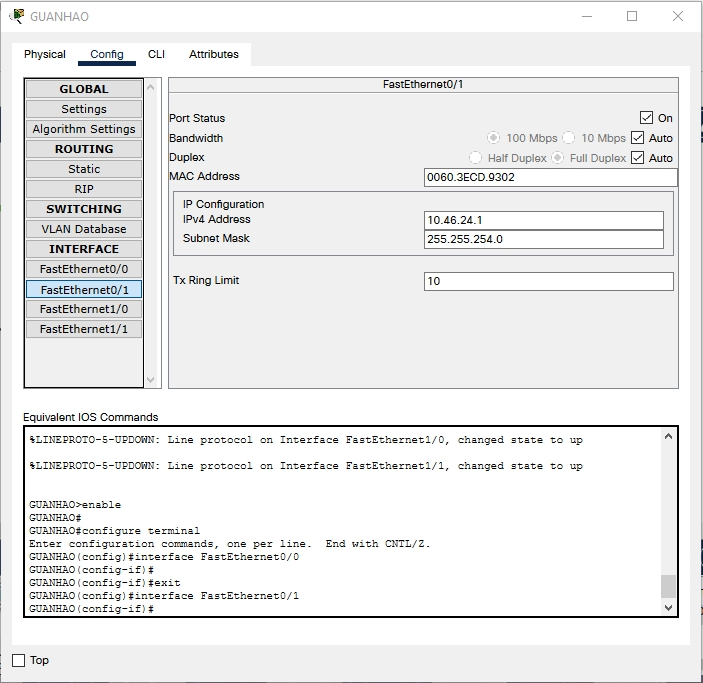
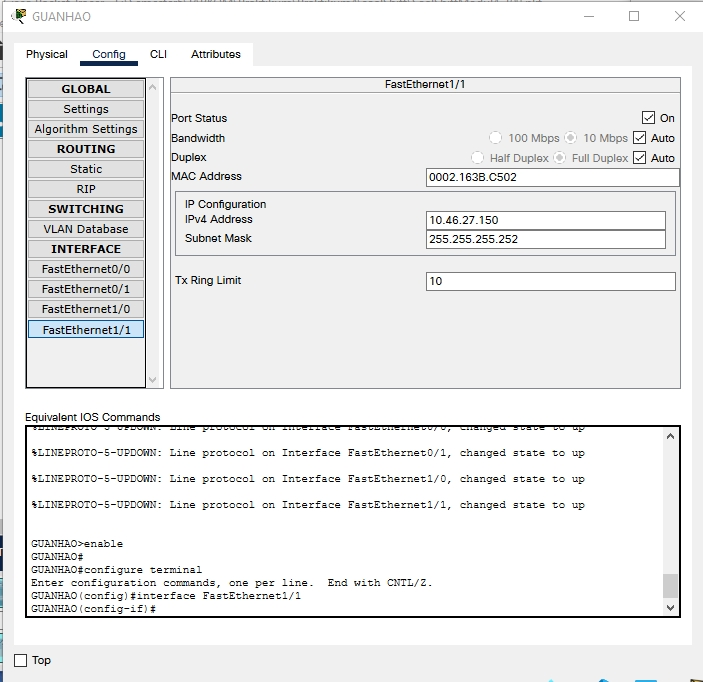
Penambahan penjelasan bbrp router & klien pd VLSM

diff --git a/README.md b/README.md
@@ -118,11 +118,54 @@ Sehingga pembagian IP yang memungkinkan dalam topologi seperti gambar berikut:
 - PUCCI (Sebagai Router)
 	- IP pada interface PUCCI yang mengarah ke WATER7 `(Fa0/0)`
 	![Foto](./img/VLSMsoalShiftmodul4/Pucci(router)/pucci_water7.jpg)
+
 	- IP pada interface PUCCI yang mengarah ke CALMBELT dan COURT YARD `(Fa0/1)`
 	![Foto](./img/VLSMsoalShiftmodul4/Pucci(router)/pucci_calmbelt_courtyard.jpg)
+
 	- IP pada interface PUCCI yang mengarah ke JIPANGU `(Fa1/0)`
 	![Foto](./img/VLSMsoalShiftmodul4/Pucci(router)/pucci_jipangu.jpg)
 
+   - Routing untuk mengijinkan segala aktivitas paket yang menuju ke Water7 yang nantinya akan diteruskan ke FOOSHA melalui **A11** dengan NID `0.0.0.0/0` via `10.46.27.161`:
+   ![Foto](./img/VLSMsoalShiftmodul4/Pucci(router)/staticroute.jpg)
+
+- GUANHAO (Sebagai Router)
+	- IP pada interface GUANHAO yang mengarah ke FOOSHA `(Fa1/1)`
+	![Foto](./img/VLSMsoalShiftmodul4/Guanhao(router)/guanhao_foosha.jpg)
+
+	- IP pada interface GUANHAO yang mengarah ke JABRA `(Fa0/0)`
+	![Foto](./img/VLSMsoalShiftmodul4/Guanhao(router)/guanhao_jabra.jpg)
+
+	- IP pada interface GUANHAO yang mengarah ke MAINGATE dan ALABASTA `(Fa0/1)`
+	![Foto](./img/VLSMsoalShiftmodul4/Guanhao(router)/guanhao_maingate_alabasta.jpg)
+
+	- IP pada interface GUANHAO yang mengarah ke OIIMO `(Fa1/0)`
+	![Foto](./img/VLSMsoalShiftmodul4/Guanhao(router)/guanhao_oiimo.jpg)
+
+   - Routing untuk mengijinkan segala aktivitas paket yang menuju ke FOOSHA melalui **A7** dengan NID `0.0.0.0/0` via `10.46.27.149`,  menuju **A5** dengan NID `10.46.27.128/28` via `10.46.24.2`,  menuju **A14** dengan NID `10.46.27.168/30` via `10.46.27.146`,  menuju **A2** dengan NID `10.46.26.0/24` via `10.46.27.146`,  menuju **A1** dengan NID `10.46.16.0/22` via `10.46.27.146` :
+   ![Foto](./img/VLSMsoalShiftmodul4/Guanhao(router)/staticroute1.jpg)
+   ![Foto](./img/VLSMsoalShiftmodul4/Guanhao(router)/staticroute2.jpg)
+
+- JABRA (Sebagai Klien)
+	- IP pada Configuration JABRA yang mengarah ke GUANHAO `(Fa0)`
+	![Foto](./img/VLSMsoalShiftmodul4/Jabra(klien)/jabraconf.jpg)
+
+- MAINGATE (Sebagai Klien)
+	- IP pada Configuration MAINGATE yang mengarah ke GUANHAO `(Fa0)`
+	![Foto](./img/VLSMsoalShiftmodul4/MainGate(klien)/maingateconf.jpg)
+
+- ALABASTA (Sebagai Router)
+	- IP pada interface ALABASTA yang mengarah ke GUANHAO `(Fa0/0)`
+	![Foto](./img/VLSMsoalShiftmodul4/Alabasta(router)/alabasta_guanhao.jpg)
+
+	- IP pada interface ALABASTA yang mengarah ke JORGE `(Fa0/1)`
+	![Foto](./img/VLSMsoalShiftmodul4/Alabasta(router)/alabasta_jorge.jpg)
+
+   - Routing untuk mengijinkan segala aktivitas paket yang menuju ke FOOSHA melalui **A6** dengan NID `0.0.0.0/0` via `10.46.24.1`:
+   ![Foto](./img/VLSMsoalShiftmodul4/Alabasta(router)/staticroute.jpg)
+
+- JORGE (Sebagai Klien)
+	- IP pada Configuration JORGE yang mengarah ke ALABASTA `(Fa0)`
+	![Foto](./img/VLSMsoalShiftmodul4/Jorge(klien)/jorgeconf.jpg)
 
 <br>
 
